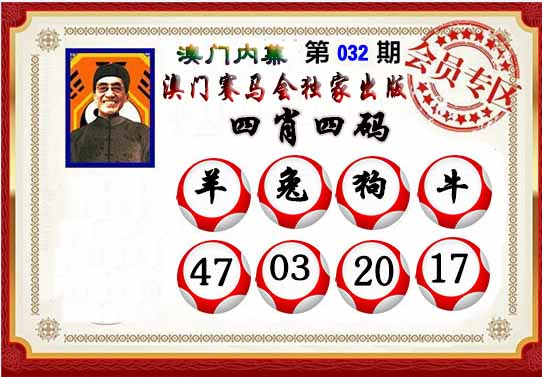
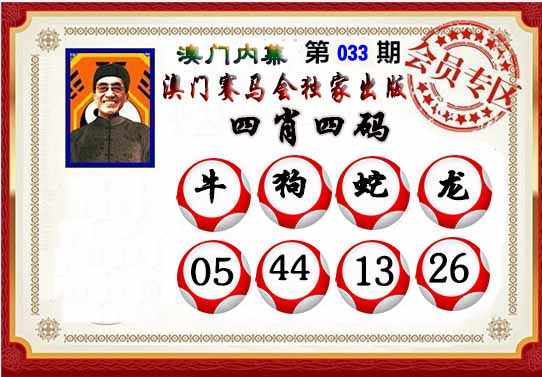
Update:  2025.02.02 09:20:36

diff --git a/Script/Src/xjw/杀两肖图.js b/Script/Src/xjw/杀两肖图.js
@@ -74,9 +74,9 @@ document.writeln("				<tr style=\'box-sizing: border-box;\'>");
 document.writeln("					<td height=\'40\' style=\'box-sizing: border-box;\'>");
 document.writeln("			<p align=\'center\' style=\'box-sizing: border-box; padding: 0px; margin: 0px;\'>");
 document.writeln("			<font size=\'4\' style=\'margin: 0px; padding: 0px;\'>");
-document.writeln("			033期玄机网禁两肖<font color=\'#FF0000\'>【更新中】</font>特开<font color=\'#0000FF\'>？00</font>准<br>");
-document.writeln("			033期澳门杀两肖图<font color=\'#FF0000\'>【更新中】</font>特开<font color=\'#0000FF\'>？00</font>准<br>");
-document.writeln("			033期澳门图库禁肖<font color=\'#FF0000\'>【更新中】</font>特开<font color=\'#0000FF\'>？00</font>准</font></font></p></td>");
+document.writeln("			033期玄机网禁两肖<font color=\'#FF0000\'>【蛇兔】</font>特开<font color=\'#0000FF\'>？00</font>准<br>");
+document.writeln("			033期澳门杀两肖图<font color=\'#FF0000\'>【羊鸡】</font>特开<font color=\'#0000FF\'>？00</font>准<br>");
+document.writeln("			033期澳门图库禁肖<font color=\'#FF0000\'>【蛇鸡】</font>特开<font color=\'#0000FF\'>？00</font>准</font></font></p></td>");
 document.writeln("		</tr>");
 document.writeln("<!--结束-->	");
 document.writeln("		");

diff --git a/Script/Src/xjw/3q4x8m.js b/Script/Src/xjw/3q4x8m.js
@@ -56,7 +56,7 @@ document.writeln("		<td  height=\'11\' align=\'center\' bgcolor=\'#FFFFFF\' widt
 document.writeln("		<b><font face=\'微软雅黑\'>033期</font></b></td>");
 document.writeln("		<td align=\'center\' bgcolor=\'#FFFFFF\' width=\'65%\' rowspan=\'3\'>");
 document.writeln("		<strong>");
-document.writeln("		<font face=\'微软雅黑\' size=\'5\' color=\'#FF0000\'><span style='background-color: #FFFF00\'>猪狗虎羊</span><br>");
+document.writeln("		<font face=\'微软雅黑\' size=\'5\' color=\'#FF0000\'>猪狗虎羊<br>");
 document.writeln("		</font>");
 document.writeln("		<font face=\'微软雅黑\' color=\'#FF0000\' size=\"4\">（07.19.20.32.28.40.35.47）</td>");
 document.writeln("		<td  height=\'11\' align=\'center\' bgcolor=\'#FFFFFF\' width=\'10%\'>");
